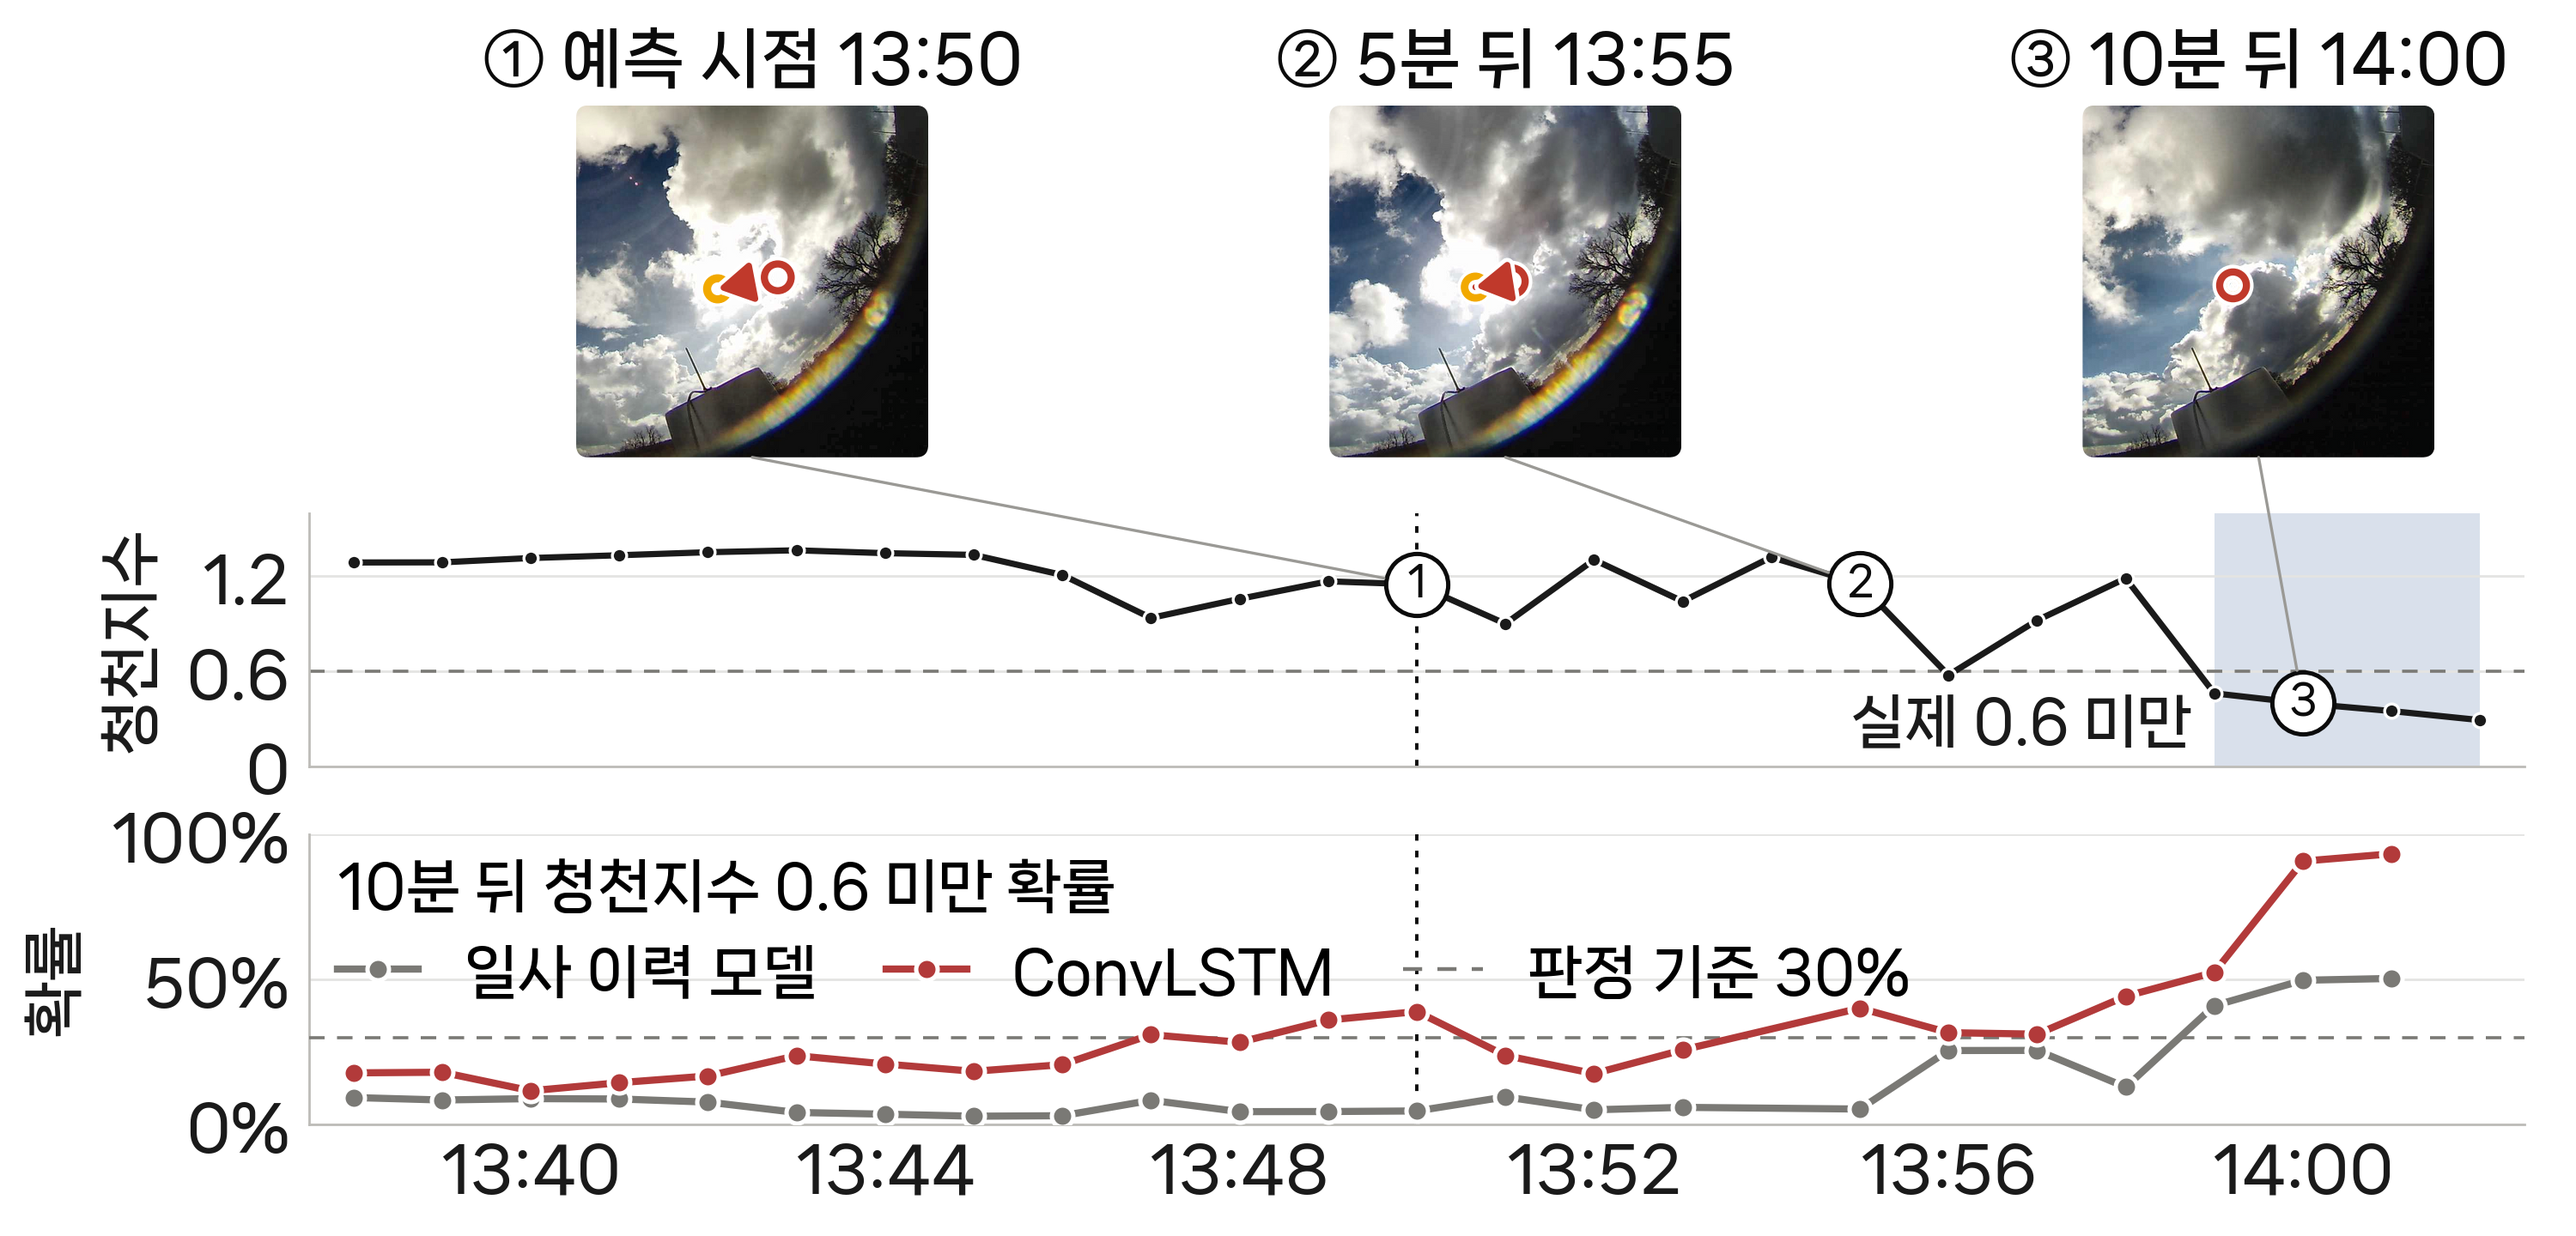
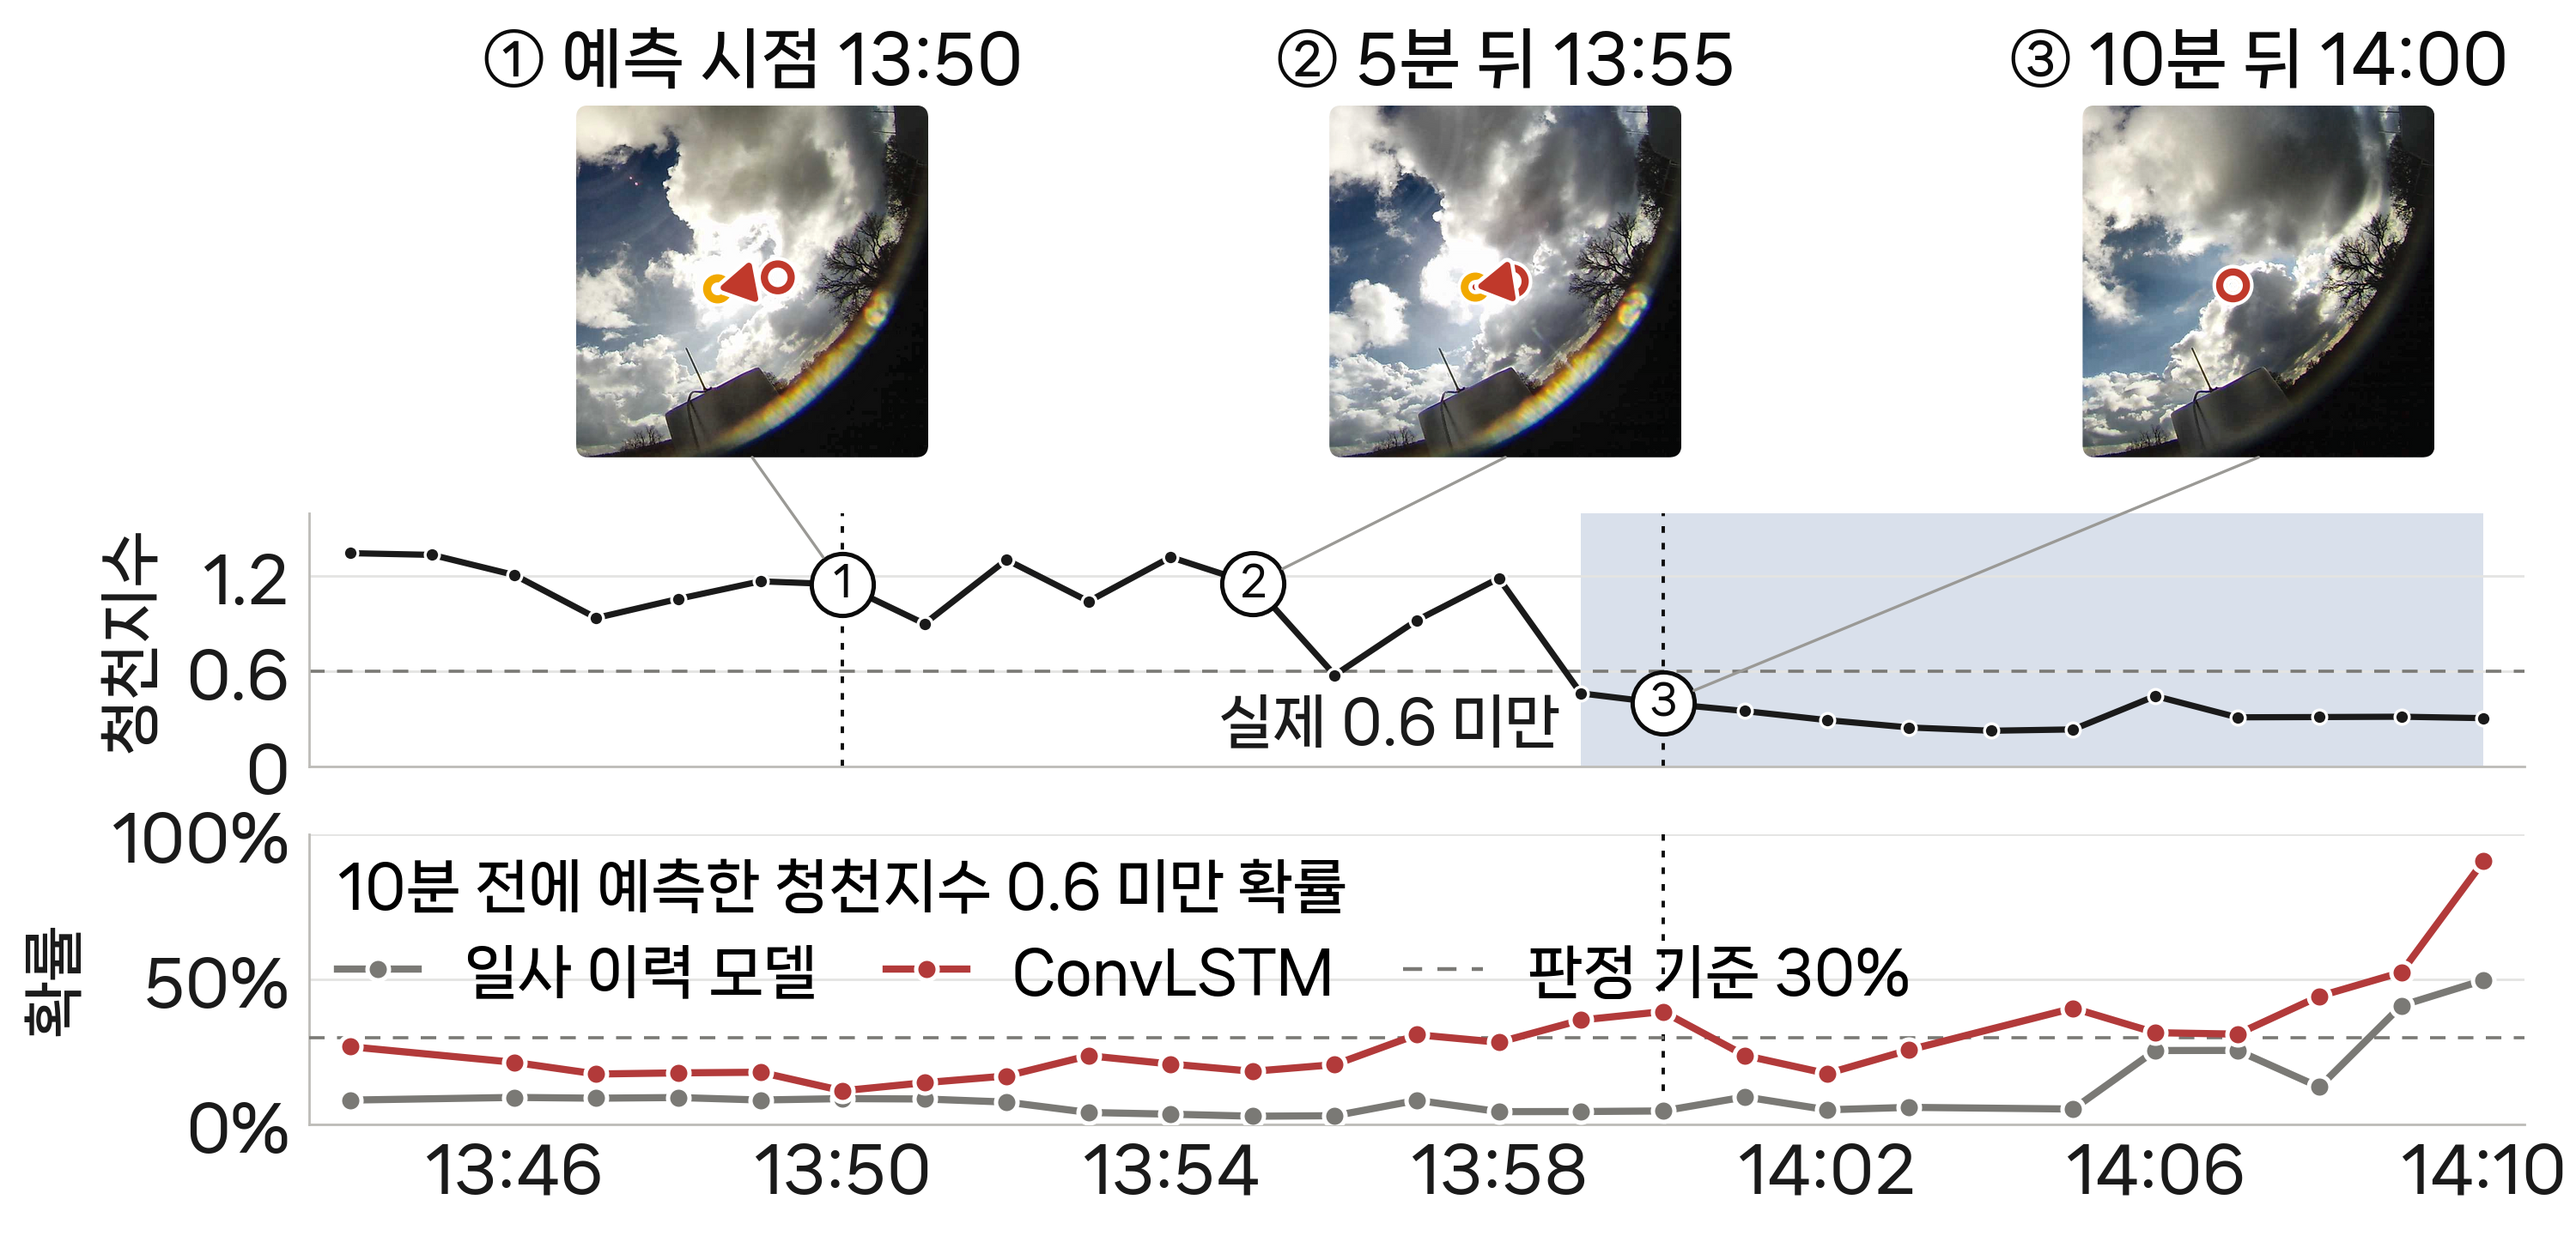
Fig. 5: align 10-min-ahead probability to target time

diff --git a/README.md b/README.md
@@ -15,7 +15,7 @@
 | [Fig. 2](figures/fig2_irradiance_kt.png) | 2014년 12월 4일 Folsom의 1분 일사량(상)과 청천지수(하), 0.6과 0.8 기준 |
 | [Fig. 3](figures/fig3_convlstm.png) | 영상 5장과 보조 특징으로 차단 확률을 내는 ConvLSTM 구조 |
 | [Fig. 4](figures/fig4_cloud_detection.png) | 원본 영상의 Green/Blue 색비와 색비 편차로 화소별 구름 확률을 구해 구름을 판별하는 과정 |
-| [Fig. 5](figures/fig5_case.png) | 일사 차단 사례(2015-12-19 13:50)의 전천영상, 실측 청천지수, 10분 뒤 청천지수 0.6 미만 확률 |
+| [Fig. 5](figures/fig5_case.png) | 일사 차단 사례(2015-12-19 13:50)의 전천영상, 실측 청천지수, 10분 전에 예측한 청천지수 0.6 미만 확률(예측 대상 시각에 맞춰 표시) |
 | [Fig. 6](figures/fig6_sky_states.png) | 맑음, 구름 이동, 흐림 상태의 예측 시점 전천영상 |
 | [Fig. 7](figures/fig7_performance.png) | 두 모델의 일사 감소 시작 예측 성능(재현율, 정밀도, F1) |
 | [Fig. 8](figures/fig8_false_alarm_ratio.png) | ConvLSTM 오탐 중 실제로 청천지수가 0.8 미만으로 감소한 비율과 사례([구름 가장자리](figures/fig8_case_cloud_edge.png), [얇은 구름](figures/fig8_case_thin_cloud.png)) |
